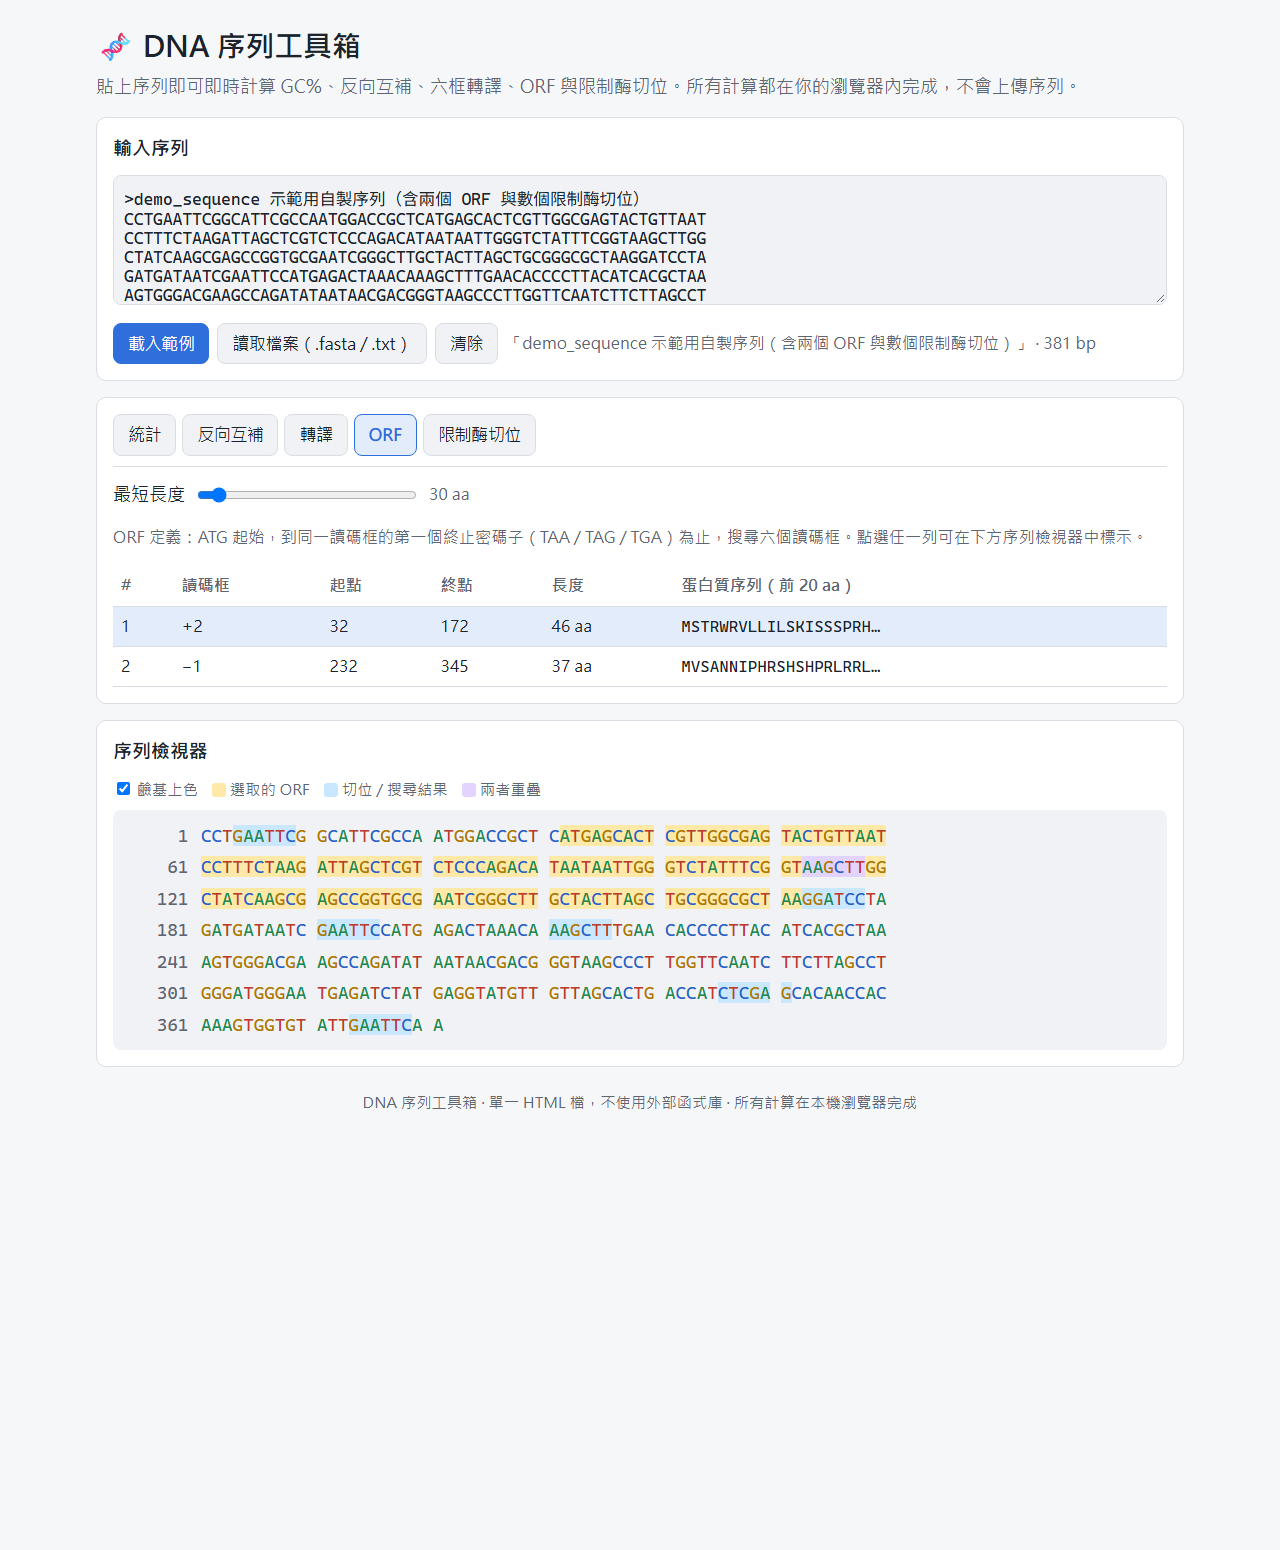
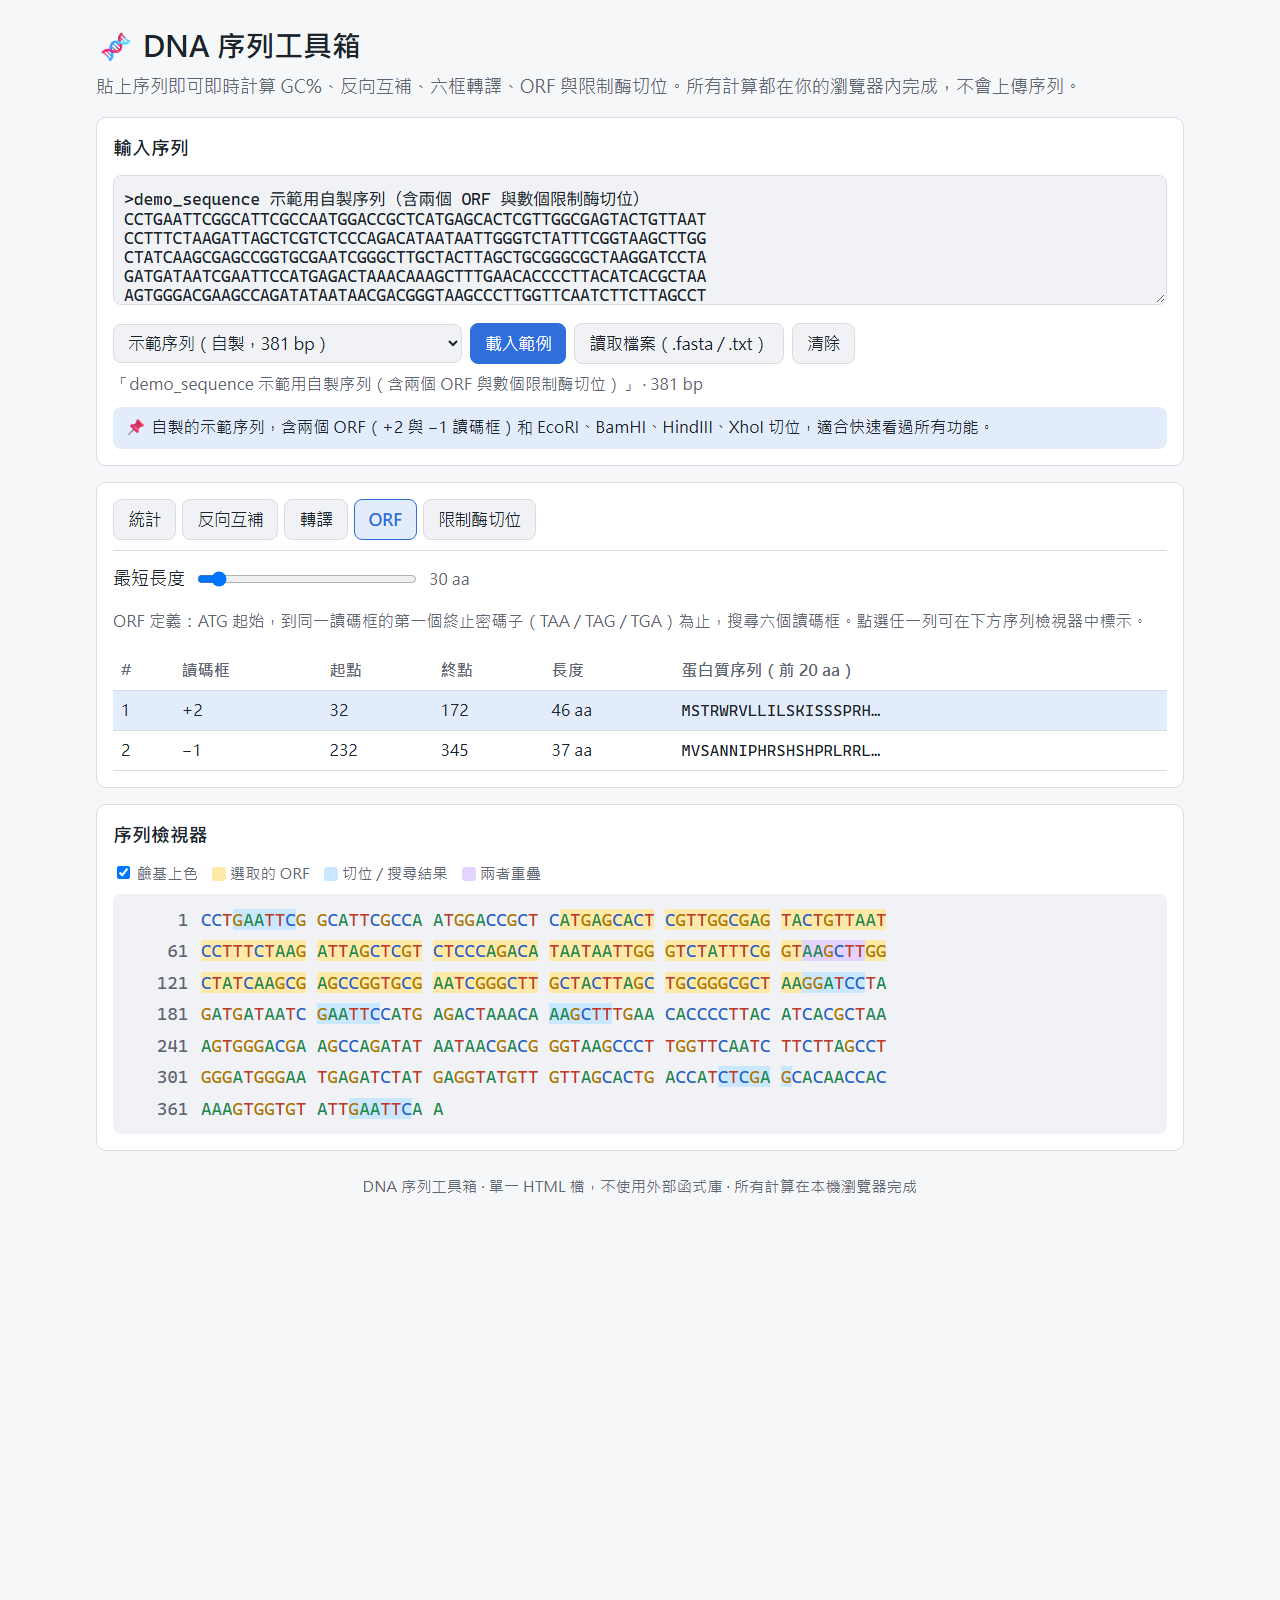
新增 6 個常見範例（EGFP、pUC19 M13 產物、M13 引子、RNA、GenBank 格式）

Changed region(s): [[0.0625, 0.0, 0.9375, 0.7432]]

diff --git a/index.html b/index.html
@@ -116,6 +116,12 @@
     color: var(--text);
     cursor: pointer;
   }
+  select {
+    font: inherit; font-size: 0.92rem; padding: 7px 10px; border-radius: 8px;
+    border: 1px solid var(--border); background: var(--surface-2); color: var(--text);
+    max-width: 100%;
+  }
+  #example-desc { margin: 10px 0 0; padding: 8px 12px; background: var(--accent-soft); border-radius: 8px; color: var(--text); }
   button:hover, .file-btn:hover { border-color: var(--accent); }
   button.primary { background: var(--accent); border-color: var(--accent); color: #fff; }
   .file-btn input { display: none; }
@@ -227,11 +233,13 @@
     <h2 id="in-title">輸入序列</h2>
     <textarea id="input" spellcheck="false" placeholder="貼上 DNA 序列或 FASTA 格式，例如：&#10;>my_gene&#10;ATGGCTAGCTAA..."></textarea>
     <div class="row">
+      <select id="example-pick" aria-label="選擇範例序列"><option value="demo">示範序列（自製，381 bp）</option><option value="egfp">EGFP 綠色螢光蛋白編碼序列（720 bp）</option><option value="m13">pUC19 的 M13 PCR 產物（103 bp）</option><option value="primer">M13 Forward（−20）定序引子（17 nt）</option><option value="rna">RNA 範例：EGFP mRNA 前 60 nt</option><option value="genbank">從 GenBank 網頁直接複製的格式</option></select>
       <button class="primary" id="btn-example" type="button">載入範例</button>
       <label class="file-btn">讀取檔案（.fasta / .txt）<input type="file" id="file" accept=".fa,.fasta,.fna,.txt,text/plain"></label>
       <button id="btn-clear" type="button">清除</button>
       <span class="meta" id="seq-meta"></span>
     </div>
+    <p class="meta" id="example-desc" hidden></p>
     <div class="notice" id="notice" role="status"></div>
   </section>
 
@@ -462,7 +470,7 @@ if (typeof module !== 'undefined') module.exports = DNA;
 <script>
 (() => {
   const $ = id => document.getElementById(id);
-  const EXAMPLE = '>demo_sequence 示範用自製序列（含兩個 ORF 與數個限制酶切位）\nCCTGAATTCGGCATTCGCCAATGGACCGCTCATGAGCACTCGTTGGCGAGTACTGTTAAT\nCCTTTCTAAGATTAGCTCGTCTCCCAGACATAATAATTGGGTCTATTTCGGTAAGCTTGG\nCTATCAAGCGAGCCGGTGCGAATCGGGCTTGCTACTTAGCTGCGGGCGCTAAGGATCCTA\nGATGATAATCGAATTCCATGAGACTAAACAAAGCTTTGAACACCCCTTACATCACGCTAA\nAGTGGGACGAAGCCAGATATAATAACGACGGGTAAGCCCTTGGTTCAATCTTCTTAGCCT\nGGGATGGGAATGAGATCTATGAGGTATGTTGTTAGCACTGACCATCTCGAGCACAACCAC\nAAAGTGGTGTATTGAATTCAA';
+  const EXAMPLES = [{"id": "demo", "label": "示範序列（自製，381 bp）", "desc": "自製的示範序列，含兩個 ORF（+2 與 −1 讀碼框）和 EcoRI、BamHI、HindIII、XhoI 切位，適合快速看過所有功能。", "text": ">demo_sequence 示範用自製序列（含兩個 ORF 與數個限制酶切位）\nCCTGAATTCGGCATTCGCCAATGGACCGCTCATGAGCACTCGTTGGCGAGTACTGTTAAT\nCCTTTCTAAGATTAGCTCGTCTCCCAGACATAATAATTGGGTCTATTTCGGTAAGCTTGG\nCTATCAAGCGAGCCGGTGCGAATCGGGCTTGCTACTTAGCTGCGGGCGCTAAGGATCCTA\nGATGATAATCGAATTCCATGAGACTAAACAAAGCTTTGAACACCCCTTACATCACGCTAA\nAGTGGGACGAAGCCAGATATAATAACGACGGGTAAGCCCTTGGTTCAATCTTCTTAGCCT\nGGGATGGGAATGAGATCTATGAGGTATGTTGTTAGCACTGACCATCTCGAGCACAACCAC\nAAAGTGGTGTATTGAATTCAA"}, {"id": "egfp", "label": "EGFP 綠色螢光蛋白編碼序列（720 bp）", "desc": "增強型綠色螢光蛋白（EGFP）的完整編碼序列。來源：pEGFP-N1，GenBank U55762，第 679–1398 位。試試：「轉譯」分頁選 +1 會得到完整的 EGFP 蛋白質（239 aa，結尾是 *）；「ORF」分頁最長的就是它。", "text": ">EGFP CDS | pEGFP-N1 (GenBank U55762) 679..1398\nATGGTGAGCAAGGGCGAGGAGCTGTTCACCGGGGTGGTGCCCATCCTGGTCGAGCTGGAC\nGGCGACGTAAACGGCCACAAGTTCAGCGTGTCCGGCGAGGGCGAGGGCGATGCCACCTAC\nGGCAAGCTGACCCTGAAGTTCATCTGCACCACCGGCAAGCTGCCCGTGCCCTGGCCCACC\nCTCGTGACCACCCTGACCTACGGCGTGCAGTGCTTCAGCCGCTACCCCGACCACATGAAG\nCAGCACGACTTCTTCAAGTCCGCCATGCCCGAAGGCTACGTCCAGGAGCGCACCATCTTC\nTTCAAGGACGACGGCAACTACAAGACCCGCGCCGAGGTGAAGTTCGAGGGCGACACCCTG\nGTGAACCGCATCGAGCTGAAGGGCATCGACTTCAAGGAGGACGGCAACATCCTGGGGCAC\nAAGCTGGAGTACAACTACAACAGCCACAACGTCTATATCATGGCCGACAAGCAGAAGAAC\nGGCATCAAGGTGAACTTCAAGATCCGCCACAACATCGAGGACGGCAGCGTGCAGCTCGCC\nGACCACTACCAGCAGAACACCCCCATCGGCGACGGCCCCGTGCTGCTGCCCGACAACCAC\nTACCTGAGCACCCAGTCCGCCCTGAGCAAAGACCCCAACGAGAAGCGCGATCACATGGTC\nCTGCTGGAGTTCGTGACCGCCGCCGGGATCACTCTCGGCATGGACGAGCTGTACAAGTAA"}, {"id": "m13", "label": "pUC19 的 M13 PCR 產物（103 bp）", "desc": "用 M13 Forward（−20）與 M13 Reverse 引子從 pUC19 擴增出的片段，中間是多重選殖位點（MCS）。來源：pUC19，GenBank L09137，第 379–481 位。試試：「限制酶切位」分頁把 XbaI、PstI、SalI 也勾起來，可看到 MCS 上一連串的切位。", "text": ">pUC19 M13 amplicon | GenBank L09137 379..481\nGTAAAACGACGGCCAGTGAATTCGAGCTCGGTACCCGGGGATCCTCTAGAGTCGACCTGC\nAGGCATGCAAGCTTGGCGTAATCATGGTCATAGCTGTTTCCTG"}, {"id": "primer", "label": "M13 Forward（−20）定序引子（17 nt）", "desc": "最常用的定序引子之一。短序列適合看 GC% 與預估 Tm；可以把它貼到「自訂序列搜尋」，在 M13 PCR 產物範例中找到它的位置。", "text": ">M13 Forward (-20) primer\nGTAAAACGACGGCCAGT"}, {"id": "rna", "label": "RNA 範例：EGFP mRNA 前 60 nt", "desc": "含 U 的 RNA 序列，會自動轉成 DNA（U → T）並顯示提示。試試：「轉譯」分頁 +1 會得到 EGFP 的前 20 個胺基酸。", "text": ">EGFP mRNA 5' 60 nt\nAUGGUGAGCAAGGGCGAGGAGCUGUUCACCGGGGUGGUGCCCAUCCUGGUCGAGCUGGAC"}, {"id": "genbank", "label": "從 GenBank 網頁直接複製的格式", "desc": "模擬從 NCBI 網頁複製 ORIGIN 區塊的樣子：有行號、空白、小寫。工具會自動清掉數字與空白，得到 EGFP 的前 120 bp。", "text": "        1 atggtgagca agggcgagga gctgttcacc ggggtggtgc ccatcctggt cgagctggac\n       61 ggcgacgtaa acggccacaa gttcagcgtg tccggcgagg gcgagggcga tgccacctac"}];
 
   const state = { seq: '', frame: 1, selectedOrf: null, orfs: [], sites: [] };
   const enzymeChecked = new Set(['EcoRI', 'BamHI', 'HindIII', 'XhoI']);
@@ -667,16 +675,25 @@ if (typeof module !== 'undefined') module.exports = DNA;
 
   let timer;
   const debounced = () => { clearTimeout(timer); timer = setTimeout(update, 150); };
-  $('input').addEventListener('input', debounced);
+  $('input').addEventListener('input', () => { $('example-desc').hidden = true; debounced(); });
   $('motif').addEventListener('input', () => { clearTimeout(timer); timer = setTimeout(() => { renderSites(); renderViewer(); }, 150); });
   $('minaa').addEventListener('input', () => { renderORFs(); renderViewer(); });
-  $('btn-example').addEventListener('click', () => { $('input').value = EXAMPLE; state.selectedOrf = null; update(); });
-  $('btn-clear').addEventListener('click', () => { $('input').value = ''; $('motif').value = ''; state.selectedOrf = null; update(); $('input').focus(); });
+  function loadExample() {
+    const ex = EXAMPLES.find(e => e.id === $('example-pick').value);
+    $('input').value = ex.text;
+    $('example-desc').textContent = '📌 ' + ex.desc;
+    $('example-desc').hidden = false;
+    state.selectedOrf = null;
+    update();
+  }
+  $('btn-example').addEventListener('click', loadExample);
+  $('example-pick').addEventListener('change', loadExample);
+  $('btn-clear').addEventListener('click', () => { $('example-desc').hidden = true; $('input').value = ''; $('motif').value = ''; state.selectedOrf = null; update(); $('input').focus(); });
   $('file').addEventListener('change', e => {
     const f = e.target.files[0];
     if (!f) return;
     const reader = new FileReader();
-    reader.onload = () => { $('input').value = reader.result; state.selectedOrf = null; update(); toast(`已載入 ${f.name}`); };
+    reader.onload = () => { $('example-desc').hidden = true; $('input').value = reader.result; state.selectedOrf = null; update(); toast(`已載入 ${f.name}`); };
     reader.readAsText(f);
     e.target.value = '';
   });

diff --git a/README.md b/README.md
@@ -19,7 +19,7 @@
 | RNA | 含 U 時自動轉成 T 並提示「已將 RNA 轉為 DNA」|
 | 不合法字元 | A/T/G/C/N 以外的字母不計入，並顯示警告與數量 |
 | 讀檔 | 可選擇本機 .fasta / .fa / .txt 檔案載入 |
-| 範例按鈕 | 一鍵載入示範序列（自製，含多個 ORF 與限制酶切位）|
+| 範例 | 下拉選單選擇 6 個範例（自製示範、EGFP、pUC19 M13 PCR 產物、M13 引子、RNA、GenBank 格式），附來源與操作提示 |
 | 清除按鈕 | 清空輸入與所有結果 |
 
 ## 3. 功能與輸出
@@ -101,6 +101,9 @@
 | 測試 3 | 檢查手機寬度（375 px）的版面 | 整頁沒有溢出，但**序列檢視器固定每行 60 bp，手機上要左右滑動**才能看完一行，ORF 標示也不容易看 | 改成依畫面寬度自動決定每行 bp 數（10 的倍數，最多 60）；手機上每行 20 bp，視窗縮放時自動重排 |
 | 使用者回饋 | 我實際操作上線的網頁後，覺得**文字太小**，請 AI 放大 | 序列和表格是等寬字，在筆電上看久了吃力 | 全站基準字級從 16 px 提高到 18 px（手機 17 px），序列檢視器與輸出區的字也放大；版面寬度從 1040 px 加到 1120 px |
 | 測試 4 | 放大字後重新檢查手機版 | 字變大後，手機上 ORF 表格的欄位被擠成一字一行（「讀碼框」變成三行、「46 aa」斷行） | 表頭、數字欄、讀碼框欄設為不換行，表格在小螢幕上可左右滑動 |
+| 使用者回饋 2 | 我請 AI **多加幾個常見的範例** | 原本只有一個自製序列，看不出工具在真實資料上的效果 | 改成下拉選單，共 6 個範例：自製示範序列、EGFP 編碼序列（720 bp）、pUC19 的 M13 PCR 產物（103 bp，含多重選殖位點）、M13 Forward（−20）引子、RNA（EGFP mRNA 前 60 nt）、從 GenBank 網頁複製的格式。每個範例下方顯示來源與「可以試試看什麼」。真實序列都從 NCBI 下載核對：EGFP 轉譯結果與已知蛋白質序列一致，pUC19 的 MCS 與 M13 引子位置都在 GenBank L09137 中確認 |
+| 測試 5 | 用瀏覽器逐一切換 6 個範例 | **自製示範序列載入後長度顯示「—」**：搬進範例清單時，換行被存成字面上的「
+」，整段被當成 FASTA 標題行，序列變成空的 | 改回真正的換行，並新增測試：每個範例的長度、ORF、切位、轉譯結果都要和說明文字一致 |
 | 驗收 | 重新跑全部測試與瀏覽器檢查：ORF 標示 141 bp（第 32–172 位）、限制酶切位數量與 Python 參考實作一致、無 JavaScript 錯誤 | — | — |
 
 ## 9. 規格與實作對照
@@ -117,4 +120,5 @@
 | 序列檢視器：位置編號、10 bp 分組、上色開關、ORF／切位標示、滑鼠提示酶名稱 | ✅ 每行 bp 數改為依螢幕寬度自動調整（規格原訂 60 bp） |
 | 手機版、深色模式、不送出網路請求 | ✅ |
 | （使用者回饋新增）較大的字級 | ✅ 18 px 基準字級 |
+| （使用者回饋新增）多個常見範例 | ✅ 6 個範例，真實序列來自 NCBI GenBank U55762、L09137 |
 | 10 kb 在 1 秒內完成 | ✅（核心計算測試） |
